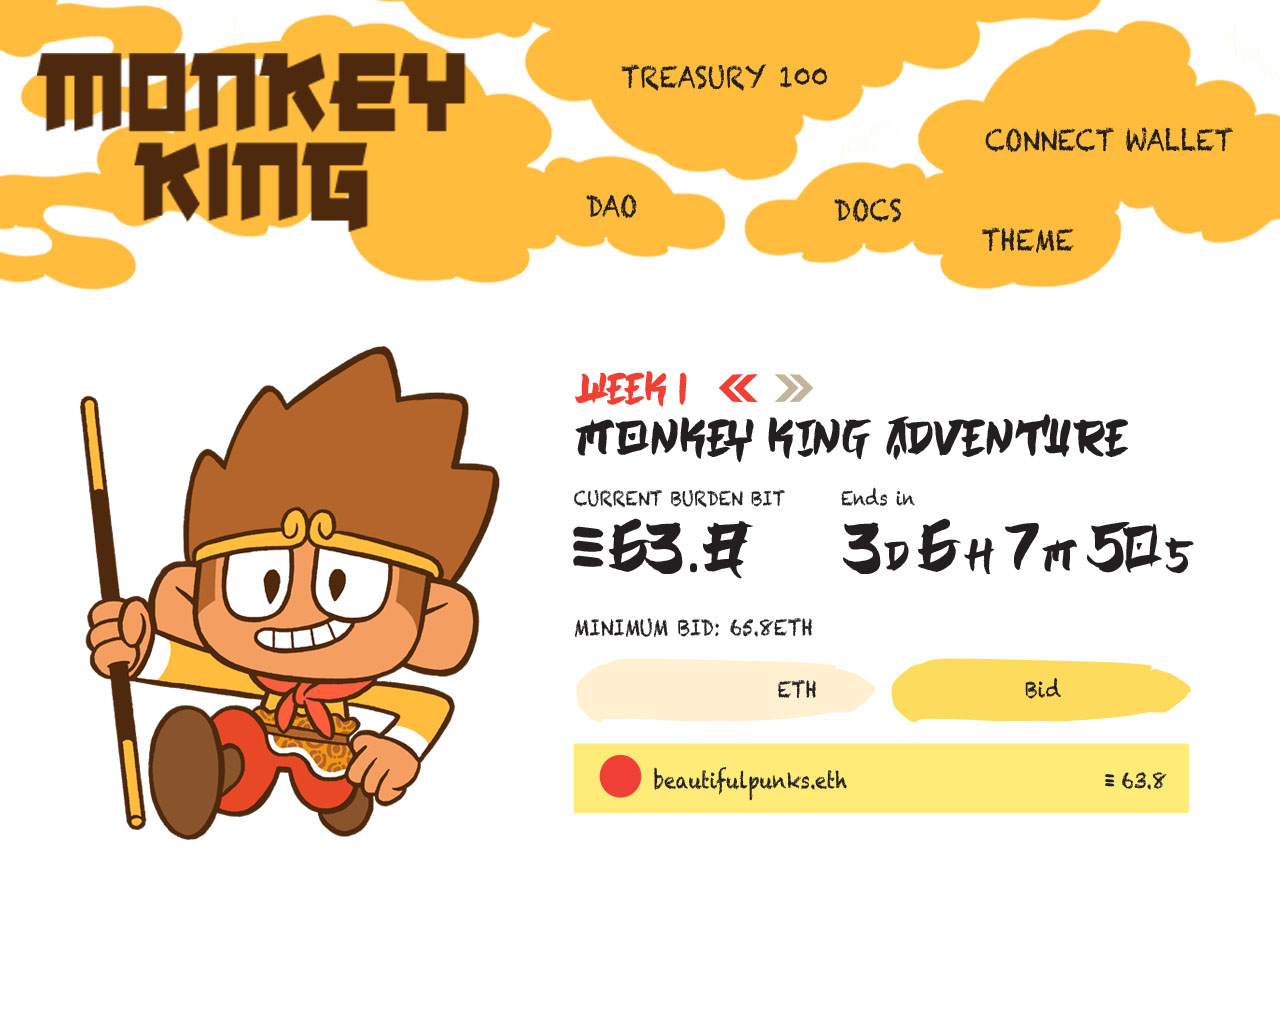
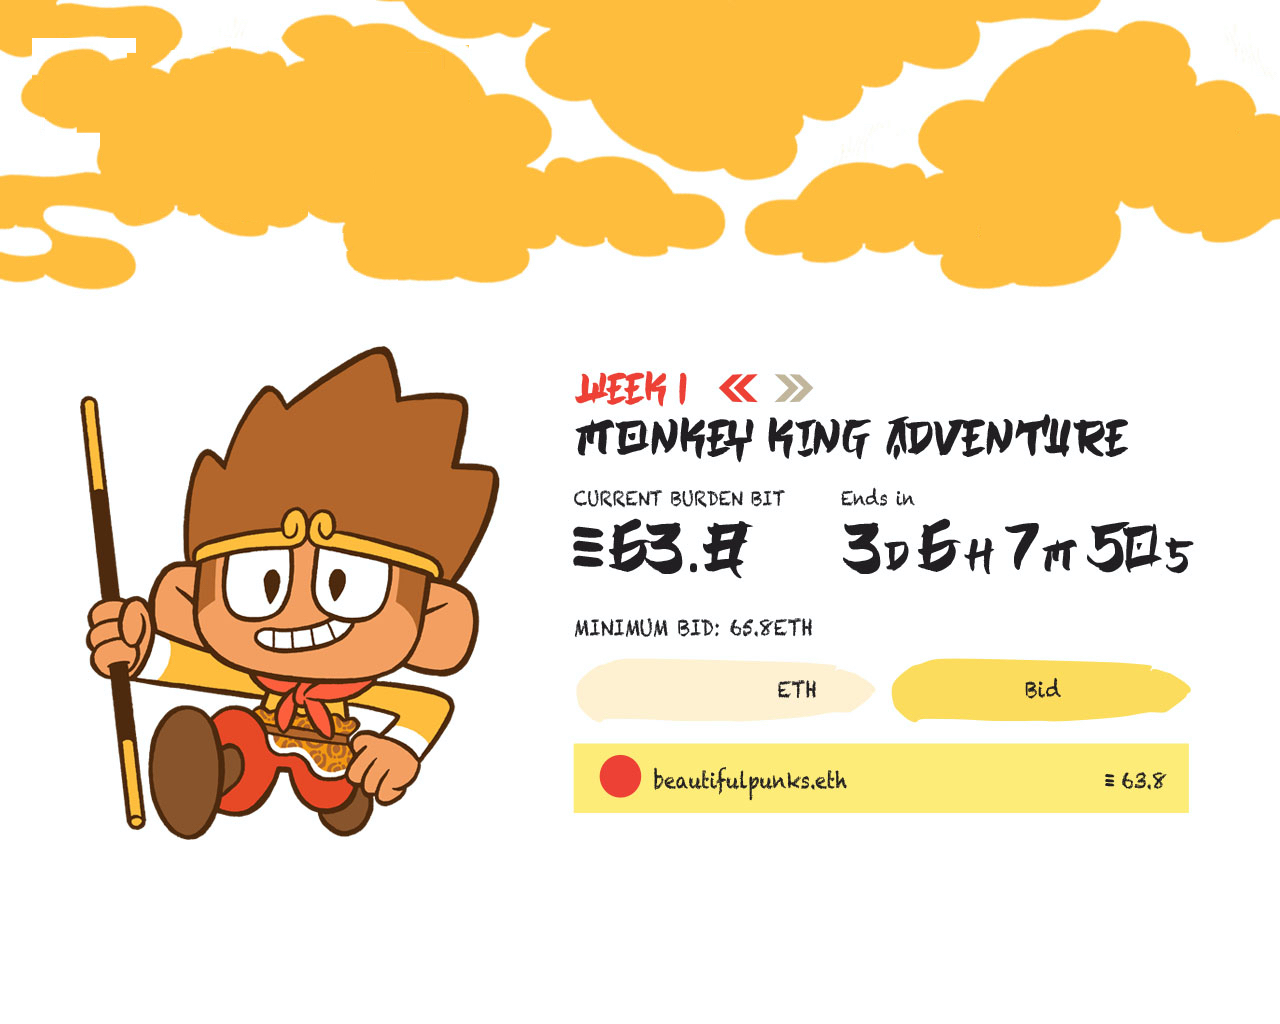
newbanner

diff --git a/pages/_app.js b/pages/_app.js
@@ -7,7 +7,7 @@ import Link from 'next/link'
 function Marketplace({ Component, pageProps }) {
   return (
     <div>
-      <nav className="border-b p-6 bg-cover">
+      <nav className="border-b p-6 page-header">
         <div className="flex mt-4">
           <div className="bg-header">
             <Link href="/">
@@ -46,60 +46,6 @@ function Marketplace({ Component, pageProps }) {
                 </a>
             </p>
           </div>
-          <svg className="svg1" viewBox='0 0 150 150'>
-            <path d='M 25,60
-                     a 20,20 1 0,0 0,80
-                     h 100
-                     a 20,20 1 0,0 0,-80
-                     a 10,10 1 0,0 -30,-20
-                     a 15,15 1 0,0 -70,20
-                     z' />
-          </svg>
-          <svg className="svg2" viewBox='0 0 105 105'>
-            <path d='M 25,60
-                     a 20,20 1 0,0 0,40
-                     h 50
-                     a 20,20 1 0,0 0,-40
-                     a 10,10 1 0,0 -15,-10
-                     a 15,15 1 0,0 -35,10
-                     z' />
-          </svg>
-          <svg className="svg3" viewBox='0 0 150 150'>
-            <path d='M 25,60
-                     a 20,20 1 0,0 0,80
-                     h 100
-                     a 20,20 1 0,0 0,-80
-                     a 10,10 1 0,0 -30,-20
-                     a 15,15 1 0,0 -70,20
-                     z' />
-          </svg>
-          <svg className="svg4" viewBox='0 0 105 105'>
-            <path d='M 25,60
-                     a 20,20 1 0,0 0,40
-                     h 50
-                     a 20,20 1 0,0 0,-40
-                     a 10,10 1 0,0 -15,-10
-                     a 15,15 1 0,0 -35,10
-                     z' />
-          </svg>
-          <svg className="svg5" viewBox='0 0 150 150'>
-            <path d='M 25,60
-                     a 20,20 1 0,0 0,80
-                     h 100
-                     a 20,20 1 0,0 0,-80
-                     a 10,10 1 0,0 -30,-20
-                     a 15,15 1 0,0 -70,20
-                     z' />
-          </svg>
-          <svg className="svg6" viewBox='0 0 105 105'>
-            <path d='M 25,60
-                     a 20,20 1 0,0 0,40
-                     h 50
-                     a 20,20 1 0,0 0,-40
-                     a 10,10 1 0,0 -15,-10
-                     a 15,15 1 0,0 -35,10
-                     z' />
-          </svg>
         </div>
       </nav>
       <Component {...pageProps} />

diff --git a/styles/globals.css b/styles/globals.css
@@ -3,6 +3,10 @@
 @tailwind components;
 @tailwind utilities;
 
+.page-header {
+    background-size: cover;
+    background-image: url(/monkey1.jpeg);
+}
 .w300-px-wide {
   width: 100% !important;
 }
